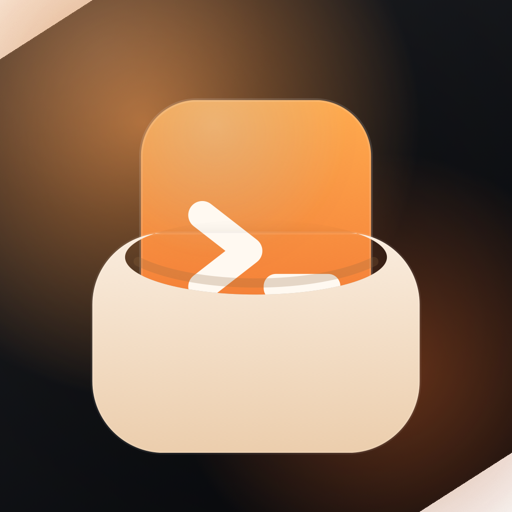
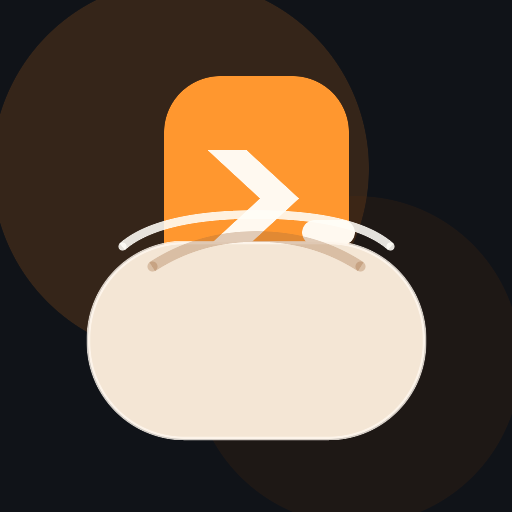
docs(profile): GitHub プロフィール画像を更新

diff --git a/README.md b/README.md
@@ -4,4 +4,6 @@ Shared GitHub profile and community-health files for the `codex-pocket` organiza
 
 - Organization overview content: [`profile/README.md`](profile/README.md)
 - Brand assets for the GitHub profile: [`profile/assets/`](profile/assets/)
+- Current GitHub hero graphic: [`profile/assets/github-hero-ja.png`](profile/assets/github-hero-ja.png)
+- Source SVG for the GitHub org avatar: [`profile/assets/org-avatar.svg`](profile/assets/org-avatar.svg)
 - Suggested GitHub org avatar upload: [`profile/assets/org-avatar.png`](profile/assets/org-avatar.png)

diff --git a/profile/README.md b/profile/README.md
@@ -1,5 +1,5 @@
 <p align="center">
-  <img src="./assets/github-hero.svg" alt="CodexPocket hero banner" width="100%">
+  <img src="./assets/github-hero-ja.png" alt="CodexPocket hero banner" width="100%">
 </p>
 
 # CodexPocket
